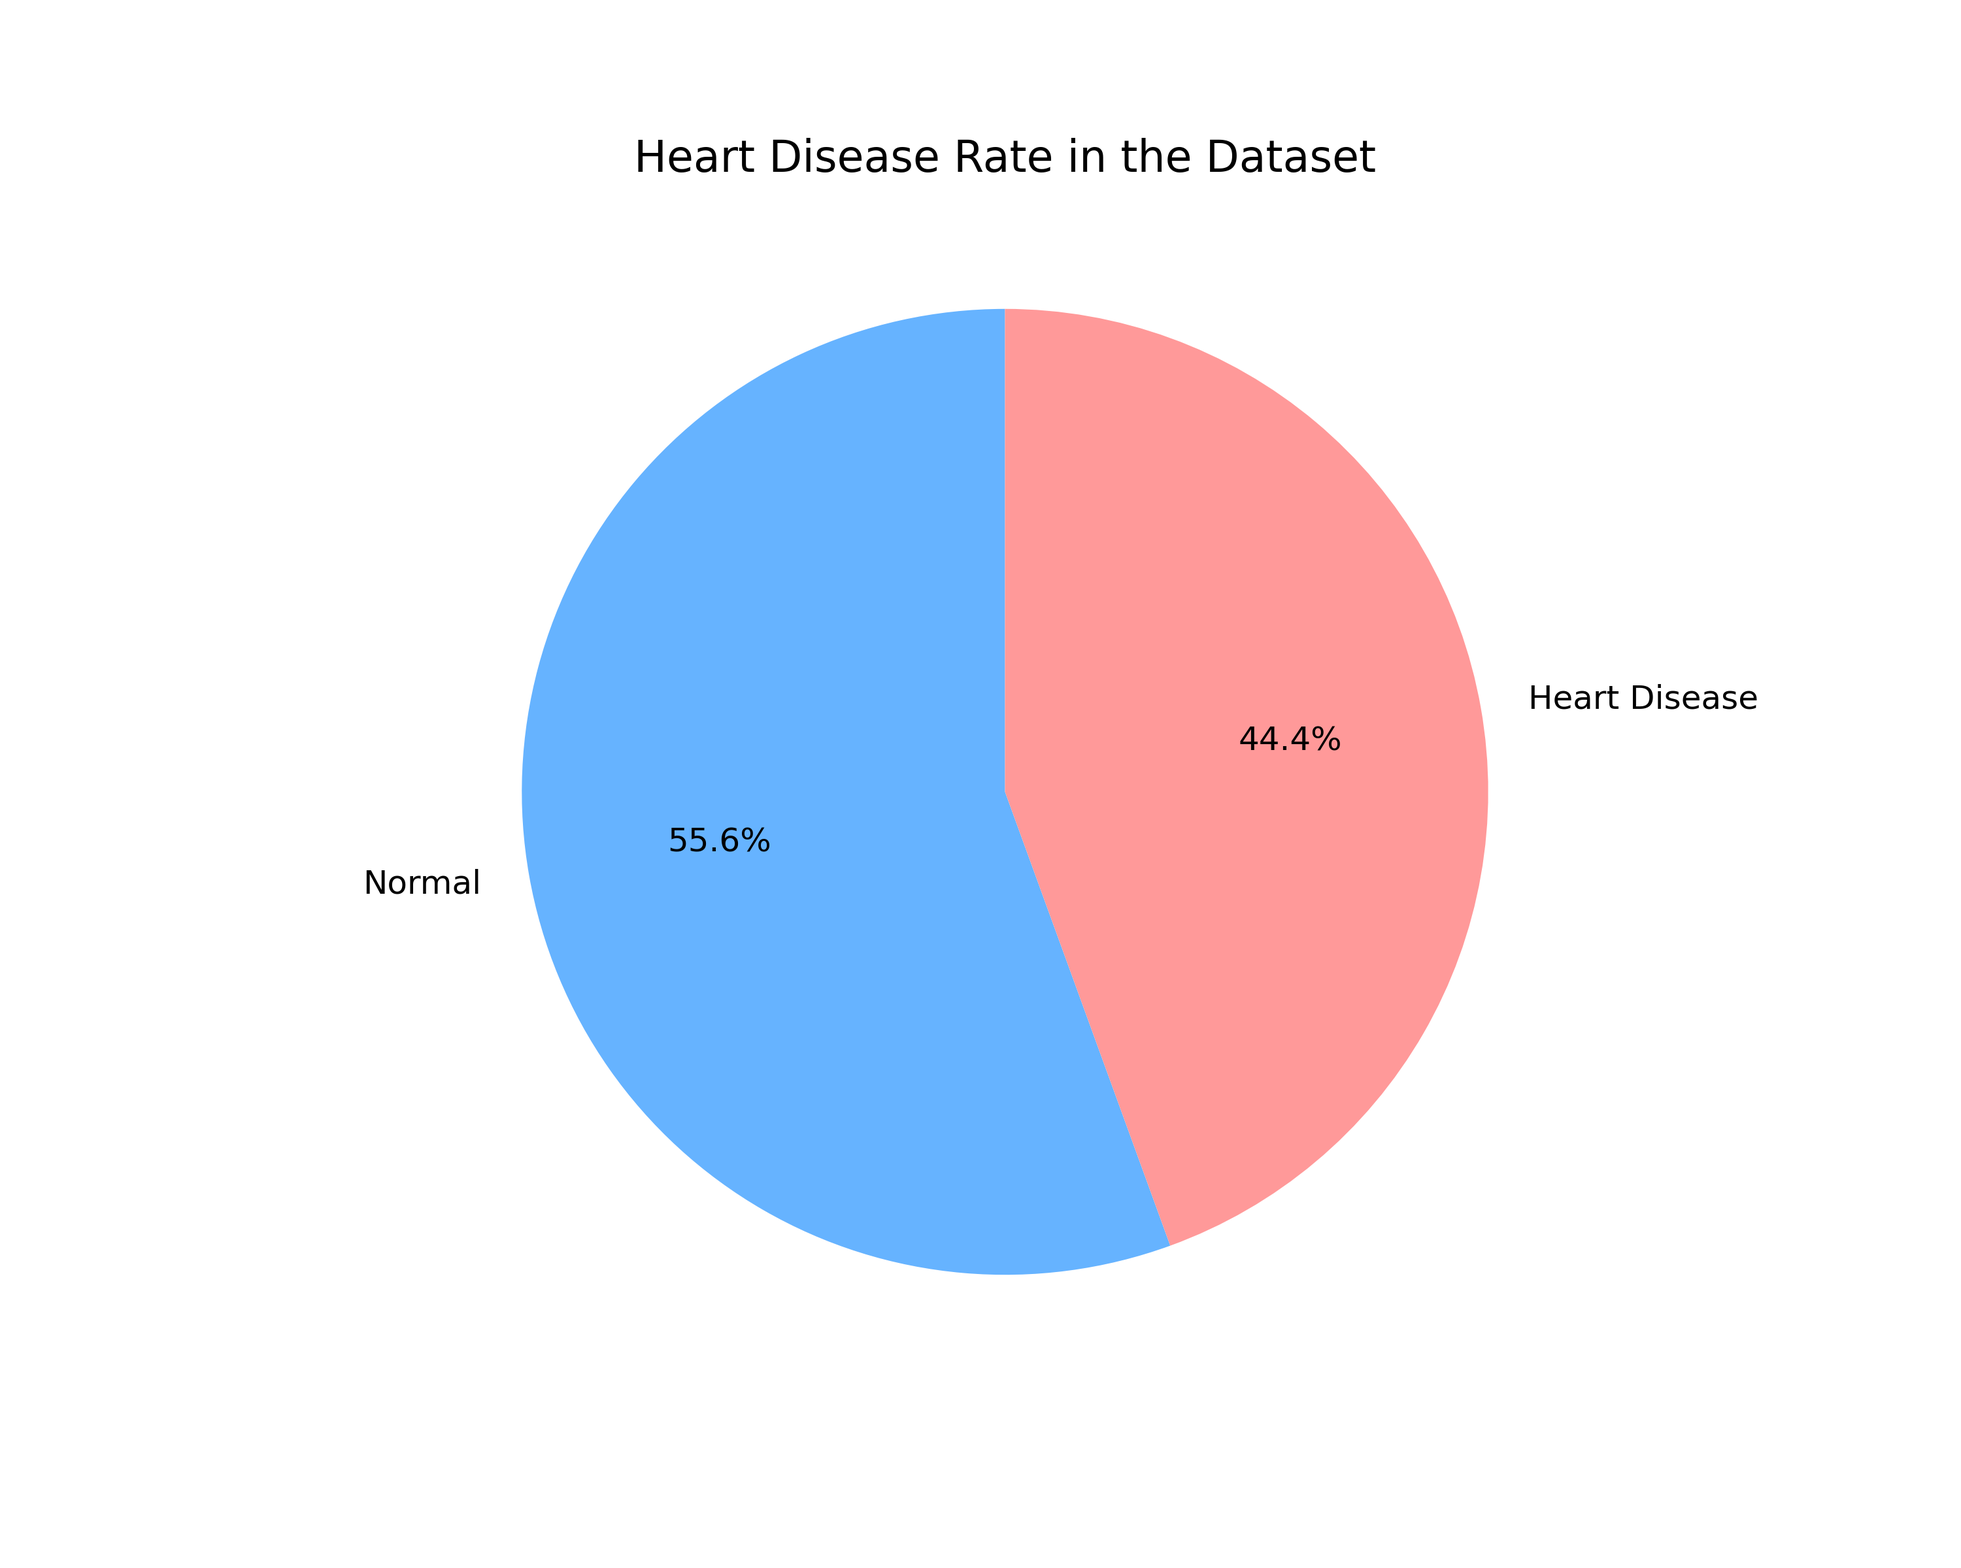
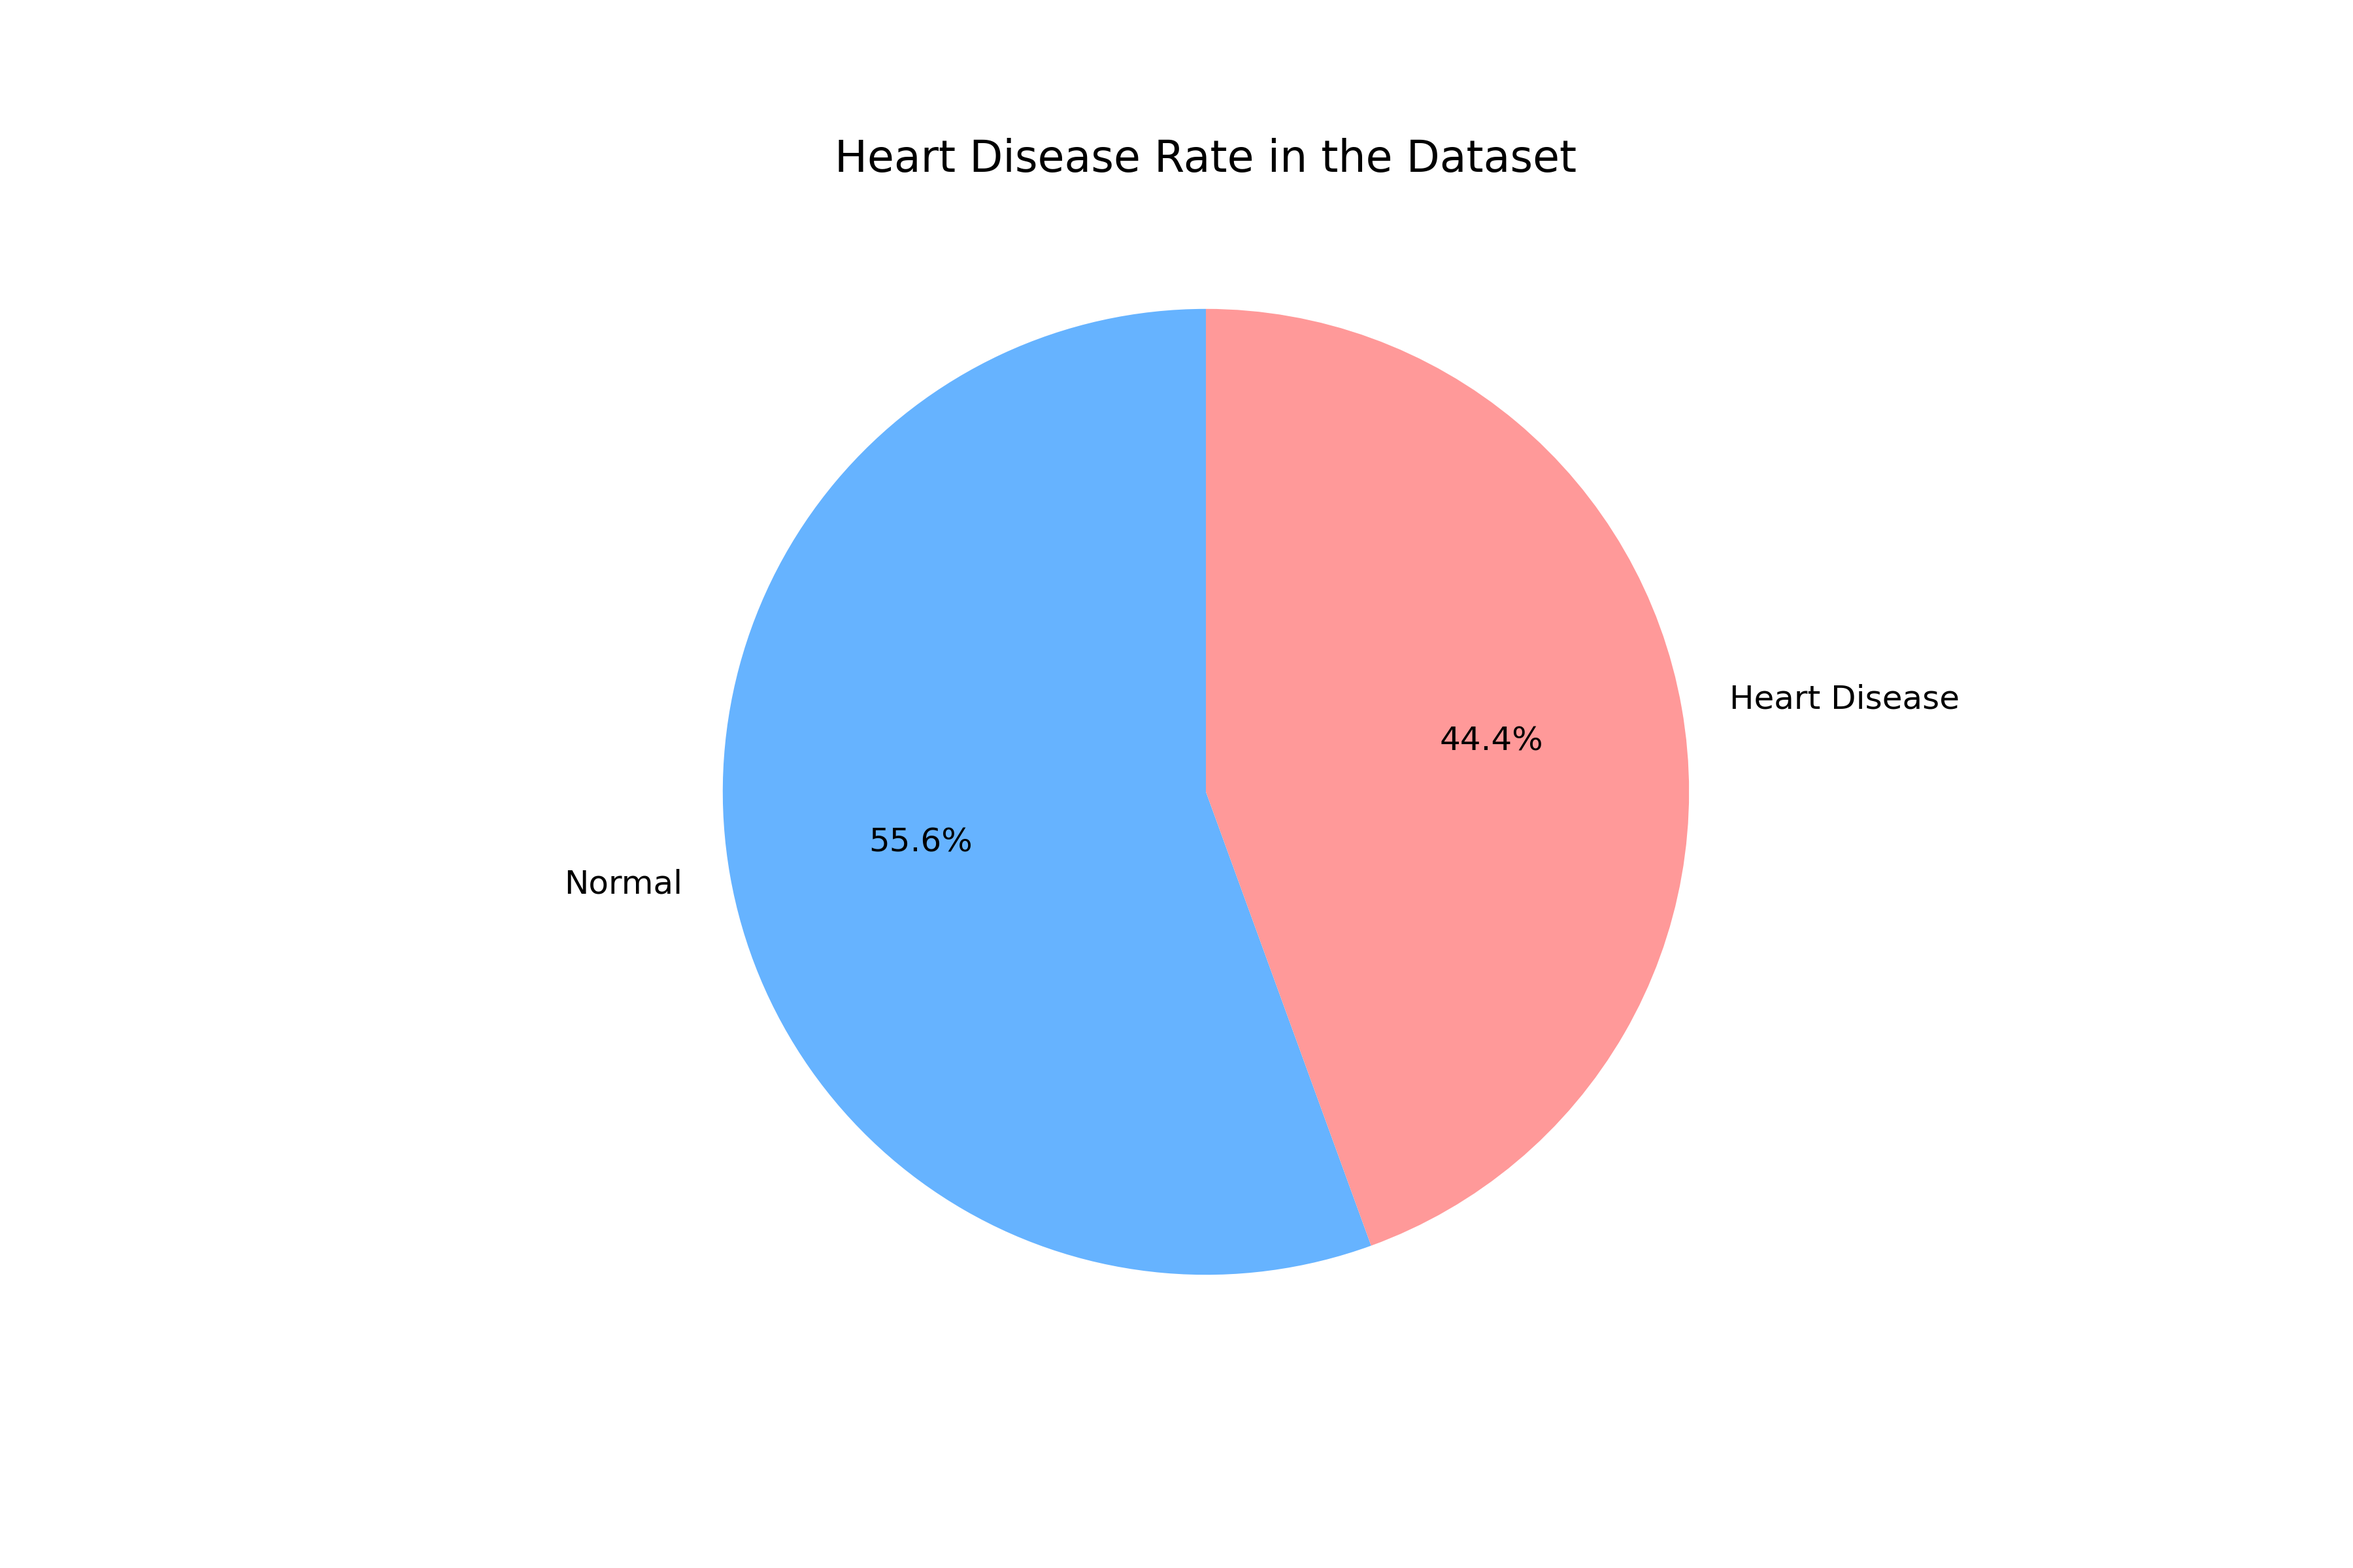
finished catergorical visualizations and age visualization

diff --git a/Categorical_Visualization.py b/Categorical_Visualization.py
@@ -1,0 +1,155 @@
+from Preprocessing import *
+
+"""
+1: 'sex'
+2: 'chest_pain_type'
+6: 'rest_ecg'
+10: 'st_slope'
+12: 'thalassemia'
+13: 'target'
+"""
+
+
+
+# Sex
+normal_sex_counts = normal['sex'].value_counts().sort_index()
+disease_sex_counts = disease['sex'].value_counts().sort_index()
+
+fig, axes = plt.subplots(1, 2, figsize=(12,6))
+
+# Normal Patients Sex Count
+axes[0].bar(['Female', 'Male'], normal_sex_counts, color=normal_color, edgecolor='black')
+axes[0].set_title('Normal Patients by Sex', fontsize=12, fontweight='bold')
+axes[0].set_ylabel('Count')
+for i, count in enumerate(normal_sex_counts):
+    axes[0].text(i, count + 0.5, str(count), ha='center', va='bottom', fontweight='bold')
+    
+# Heart Disease Patients Sex Count
+axes[1].bar(['Female', 'Male'], disease_sex_counts, color=disease_color, edgecolor='black')
+axes[1].set_title('Heart Disease Patients by Sex', fontsize=12, fontweight='bold')
+axes[1].set_ylabel('Count')
+for i, count in enumerate(disease_sex_counts):
+    axes[1].text(i, count + 0.5, str(count), ha='center', va='bottom', fontweight='bold')
+    
+fig.suptitle('Sex Distributions', fontsize=16, fontweight='bold')
+plt.tight_layout()
+plt.savefig(os.path.join('Visualization_Figures/Categorical', 'Sex.png'), dpi=300)
+plt.close() 
+
+
+
+# Chest Pain
+chest_pain_categories = ['typical angina', 'atypical angina', 'non-angina pain', 'asymptomatic']
+normal_cp_counts = normal['chest_pain_type'].value_counts().reindex(chest_pain_categories, fill_value=0)
+disease_cp_counts = disease['chest_pain_type'].value_counts().reindex(chest_pain_categories, fill_value=0)
+
+fig, axes = plt.subplots(1, 2, figsize=(12,6))
+
+# Normal Patients Chest Pain Count
+axes[0].bar(chest_pain_categories, normal_cp_counts, color=normal_color, edgecolor='black')
+axes[0].set_title('Normal Patients by Chest Pain', fontsize=12, fontweight='bold')
+axes[0].set_ylabel('Count')
+for i, count in enumerate(normal_cp_counts):
+    axes[0].text(i, count + 0.5, str(count), ha='center', va='bottom', fontweight='bold')
+    
+# Heart Disease Patients Chest Pain Count
+axes[1].bar(chest_pain_categories, disease_cp_counts, color=disease_color, edgecolor='black')
+axes[1].set_title('Heart Disease Patients by Chest Pain', fontsize=12, fontweight='bold')
+axes[1].set_ylabel('Count')
+for i, count in enumerate(disease_cp_counts):
+    axes[1].text(i, count + 0.5, str(count), ha='center', va='bottom', fontweight='bold')
+    
+fig.suptitle('Chest Pain Distributions', fontsize=16, fontweight='bold')
+plt.tight_layout()
+plt.savefig(os.path.join('Visualization_Figures/Categorical', 'Chest_Pain.png'), dpi=300)
+plt.close() 
+
+
+
+# Resting ECG
+restECG_categories = ['normal', 'Abnormality in ST-T wave', 'left ventricular hypertrophy']
+normal_restECG_counts = normal['rest_ecg'].value_counts().reindex(restECG_categories, fill_value=0)
+disease_restECG_counts = disease['rest_ecg'].value_counts().reindex(restECG_categories, fill_value=0)
+
+fig, axes = plt.subplots(1, 2, figsize=(12,6))
+
+# Normal Patients Resting ECG Count
+axes[0].bar(restECG_categories, normal_restECG_counts, color=normal_color, edgecolor='black')
+axes[0].set_title('Normal Patients by Resting ECG', fontsize=12, fontweight='bold')
+axes[0].set_ylabel('Count')
+axes[0].tick_params(axis='x', rotation=15) 
+for i, count in enumerate(normal_restECG_counts):
+    axes[0].text(i, count + 0.5, str(count), ha='center', va='bottom', fontweight='bold')
+    
+# Heart Disease Patients Resting ECG Count
+axes[1].bar(restECG_categories, disease_restECG_counts, color=disease_color, edgecolor='black')
+axes[1].set_title('Heart Disease Patients by Resting ECG', fontsize=12, fontweight='bold')
+axes[1].set_ylabel('Count')
+axes[1].tick_params(axis='x', rotation=15) 
+for i, count in enumerate(disease_restECG_counts):
+    axes[1].text(i, count + 0.5, str(count), ha='center', va='bottom', fontweight='bold')
+    
+fig.suptitle('Resting ECG Distributions', fontsize=16, fontweight='bold')
+plt.tight_layout()
+plt.savefig(os.path.join('Visualization_Figures/Categorical', 'Resting ECG.png'), dpi=300)
+plt.close() 
+
+
+
+# ST Slope
+ST_Slope_categories = ['upsloping', 'flat', 'downsloping']
+normal_ST_Slope_counts = normal['st_slope'].value_counts().reindex(ST_Slope_categories, fill_value=0)
+disease_ST_slope_counts = disease['st_slope'].value_counts().reindex(ST_Slope_categories, fill_value=0)
+
+fig, axes = plt.subplots(1, 2, figsize=(12,6))
+
+# Normal Patients ST Slope Count
+axes[0].bar(ST_Slope_categories, normal_ST_Slope_counts, color=normal_color, edgecolor='black')
+axes[0].set_title('Normal Patients by ST Slope', fontsize=12, fontweight='bold')
+axes[0].set_ylabel('Count')
+axes[0].tick_params(axis='x', rotation=15) 
+for i, count in enumerate(normal_ST_Slope_counts):
+    axes[0].text(i, count + 0.5, str(count), ha='center', va='bottom', fontweight='bold')
+    
+# Heart Disease Patients ST Slope Count
+axes[1].bar(ST_Slope_categories, disease_ST_slope_counts, color=disease_color, edgecolor='black')
+axes[1].set_title('Heart Disease Patients by ST Slope', fontsize=12, fontweight='bold')
+axes[1].set_ylabel('Count')
+axes[1].tick_params(axis='x', rotation=15) 
+for i, count in enumerate(disease_ST_slope_counts):
+    axes[1].text(i, count + 0.5, str(count), ha='center', va='bottom', fontweight='bold')
+    
+fig.suptitle('ST Slope Distributions', fontsize=16, fontweight='bold')
+plt.tight_layout()
+plt.savefig(os.path.join('Visualization_Figures/Categorical', 'ST_Slope.png'), dpi=300)
+plt.close() 
+
+
+
+# Thalassemia
+thalassemia_categories = ['null', 'fixed defect', 'normal blood flow', 'reversible defect']
+normal_thalassemia_counts = normal['thalassemia'].value_counts().reindex(thalassemia_categories, fill_value=0)
+disease_thalassemia_counts = disease['thalassemia'].value_counts().reindex(thalassemia_categories, fill_value=0)
+
+fig, axes = plt.subplots(1, 2, figsize=(12,6))
+
+# Normal Patients Thalassemia Count
+axes[0].bar(thalassemia_categories[1:4], normal_thalassemia_counts[1:4], color=normal_color, edgecolor='black')
+axes[0].set_title('Normal Patients by Thalassemia', fontsize=12, fontweight='bold')
+axes[0].set_ylabel('Count')
+axes[0].tick_params(axis='x', rotation=15) 
+for i, count in enumerate(normal_thalassemia_counts[1:4]):
+    axes[0].text(i, count + 0.5, str(count), ha='center', va='bottom', fontweight='bold')
+    
+# Heart Disease Patients Thalassemia Count
+axes[1].bar(thalassemia_categories[1:4], disease_thalassemia_counts[1:4], color=disease_color, edgecolor='black')
+axes[1].set_title('Heart Disease Patients by Thalassemia', fontsize=12, fontweight='bold')
+axes[1].set_ylabel('Count')
+axes[1].tick_params(axis='x', rotation=15) 
+for i, count in enumerate(disease_thalassemia_counts[1:4]):
+    axes[1].text(i, count + 0.5, str(count), ha='center', va='bottom', fontweight='bold')
+    
+fig.suptitle('Thalassemia Distributions', fontsize=16, fontweight='bold')
+plt.tight_layout()
+plt.savefig(os.path.join('Visualization_Figures/Categorical', 'Thalassemia.png'), dpi=300)
+plt.close() 

diff --git a/Numerical_Visualization.py b/Numerical_Visualization.py
@@ -1,0 +1,51 @@
+from Preprocessing import *
+
+"""
+0: 'age'
+3: 'resting_blood_pressure'
+4: 'cholesterol'
+5: 'fasting_blood_sugar', 
+7: 'max_heart_rate_achieved'
+8: 'exercise_induced_angina'
+9: 'st_depression'
+11: 'ca'
+13: 'target'
+"""
+
+
+# Age 
+age_bins = [20, 30, 40, 50, 60, 70, 80]
+age_groups = ['20-29', '30-39', '40-49', '50-59', '60-69', '70-79']
+
+normal_counts = pd.cut(normal['age'], bins=age_bins, labels=age_groups).value_counts().reindex(age_groups, fill_value=0)
+disease_counts = pd.cut(disease['age'], bins=age_bins, labels=age_groups).value_counts().reindex(age_groups, fill_value=0)
+
+bar_width = 0.35
+x_pos = np.arange(len(age_groups))
+
+
+plt.bar(x_pos - bar_width/2, normal_counts, bar_width, color=normal_color, 
+        edgecolor='black', label='Normal Patients')
+plt.bar(x_pos + bar_width/2, disease_counts, bar_width, color=disease_color, 
+        edgecolor='black', label='Heart Disease Patients')
+    
+plt.xlabel('Age Groups')
+plt.ylabel('Number of Patients')
+plt.title('Age Distribution: Normal vs. Heart Disease Patients', fontsize=16, fontweight='bold')
+plt.xticks(x_pos, age_groups)
+plt.legend()
+
+for i, (normal_count, disease_count) in enumerate(zip(normal_counts, disease_counts)):
+    plt.text(i - bar_width/2, normal_count + 0.5, str(normal_count), 
+             ha='center', va='bottom', fontweight='bold')
+    plt.text(i + bar_width/2, disease_count + 0.5, str(disease_count), 
+             ha='center', va='bottom', fontweight='bold')
+
+plt.tight_layout()
+plt.savefig(os.path.join('Visualization_Figures/Numerical', 'Age_Compare.png'), dpi=300)
+plt.close()
+
+
+
+# Resting Blood Pressure
+

diff --git a/Other_Visualization.py b/Other_Visualization.py
@@ -1,0 +1,28 @@
+from Preprocessing import *
+
+
+
+normal = df[df['target'] == 0]
+disease = df[df['target'] == 1]
+
+
+# Age (all patients)
+plt.xlabel('Age')
+plt.ylabel('Heart Disease Count')
+plt.hist(df['age'], bins=20, edgecolor="black")
+plt.title('Age Wise Distribution of All patients', fontsize=16)
+plt.savefig(os.path.join('Visualization_Figures', 'Age_All_Patients.png'), dpi=300)
+plt.close() 
+
+
+
+# Heart Disease Rate
+heart_disease_counts = df['target'].value_counts()
+labels = ['Normal', 'Heart Disease']
+sizes = [heart_disease_counts[0], heart_disease_counts[1]]
+colors = [normal_color, disease_color]
+
+plt.pie(sizes, labels=labels, colors=colors, autopct='%1.1f%%', startangle=90)
+plt.title('Heart Disease Rate in the Dataset', fontsize=16)
+plt.savefig(os.path.join('Visualization_Figures', 'Heart_Disease_Rate.png'), dpi=300)
+plt.close() 

diff --git a/config.py b/config.py
@@ -7,7 +7,15 @@ import os
 
 
 
+# age  sex  cp  trestbps  chol  fbs  restecg  thalach  exang  oldpeak  slope  ca  thal  target
+df = pd.read_csv('Heart_disease_statlog.csv')
+
+normal = df[df['target'] == 0]
+disease = df[df['target'] == 1]
+
+normal_color = '#66b3ff'
+disease_color = '#ff9999'
 
 plt.style.use('ggplot')
-plt.rcParams['figure.figsize'] = (10, 8)
+plt.rcParams['figure.figsize'] = (12, 8)
 plt.rcParams['font.size'] = 12

diff --git a/Preprocessing.py b/Preprocessing.py
@@ -1,8 +1,5 @@
 from config import *
 
-# age  sex  cp  trestbps  chol  fbs  restecg  thalach  exang  oldpeak  slope  ca  thal  target
-df = pd.read_csv('PACSMV-103021-Heart_Disease/Heart_disease_statlog.csv')
-
 
 # extend abbreviation of the attributes
 df.columns = ['age', 'sex', 'chest_pain_type', 'resting_blood_pressure', 'cholesterol',
